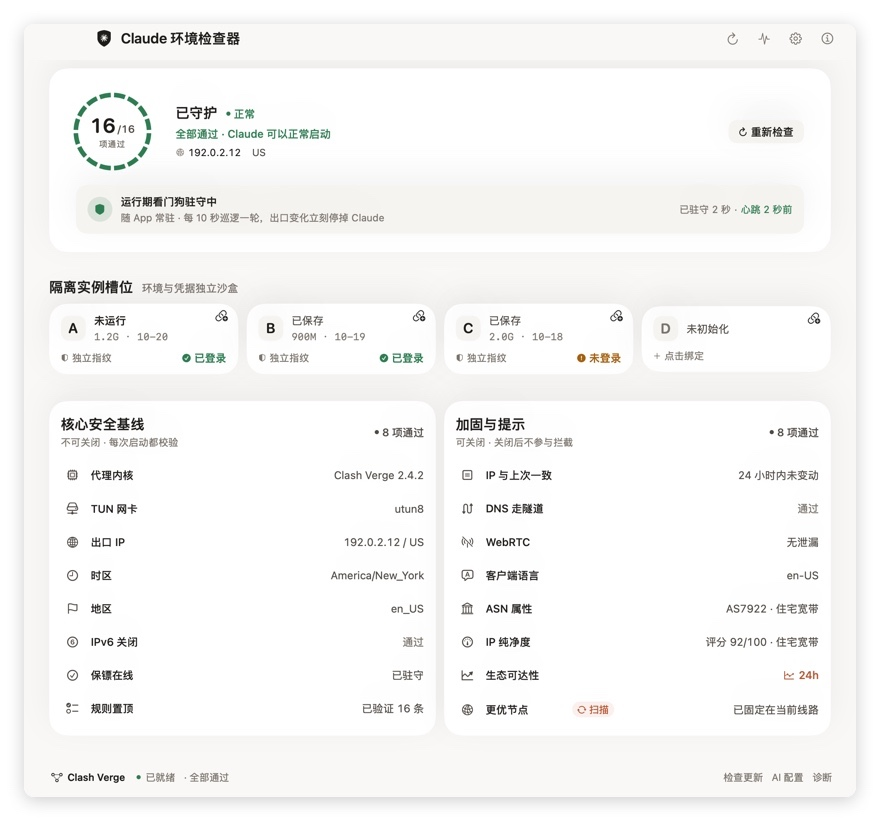
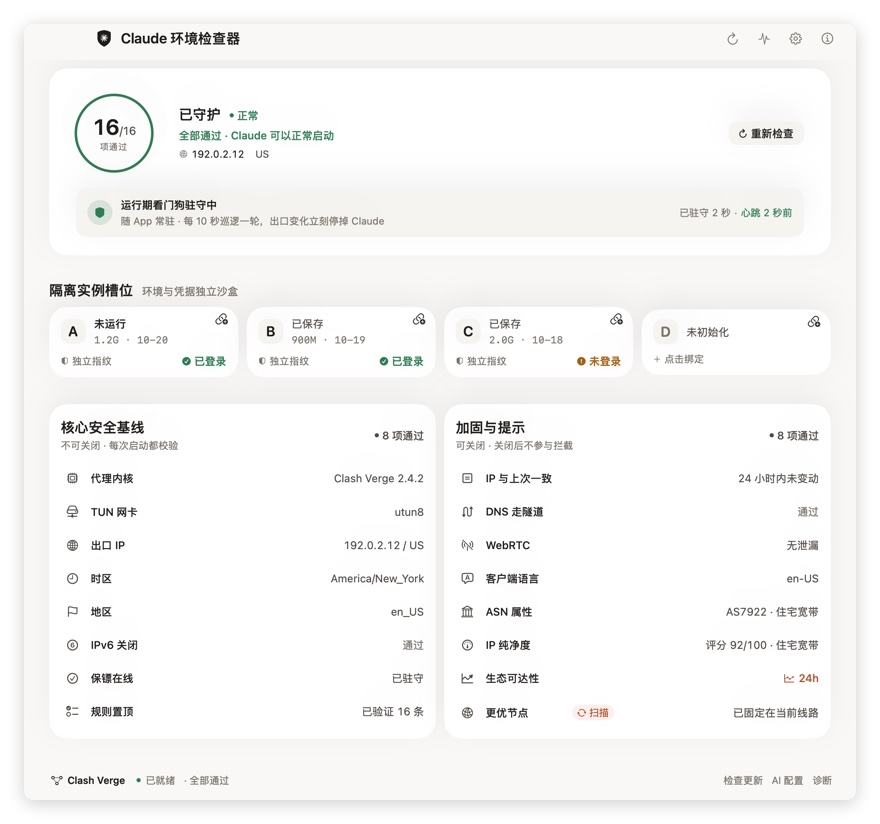
fix(ui): 圆环改回细环,环内「16/16」排成一行——圆没问题,是排布丑
用户原话(2026-11-06):「圆环太丑了」→「圆形没问题,是你之前排布太丑」。

**我上一版做错的地方**:把环改成 16 段「一段一项」。放大两倍看,每段的长度只比缝宽
一点点,整圈读起来是「加载中的虚线 spinner」—— 比原来更廉价。分段这条路当场否决。

**这版的排布**(只动环内和环的粗细,圆的形态不变):
- 环径 80 → 92,描边 5 → 3。粗环配 26pt 大字像仪表盘;细环才是「环是边框、数字是主体」。
- 环内两行 → 一行「16/16」+ 一行「项通过」。旧版是「16」和「/16 项」两行,两个 16
  挨着、斜杠贴着分母往下沉,得先解析一次才知道哪个是通过数。
- 分子分母拼进**同一个 Text**(`Text(a) + Text(b)`),不再用 HStack 对基线 ——
  HStack 里斜杠那段的字体度量会让它浮在数字上方。
- 值与分母约 2:1,分母 muted(8.8:1) 而不是 faint(4.6:1):12pt 下 faint 太浅,
  扫一眼会读成「16」。
- 单位「项通过」留在环内。试过挪到环外下方:整个左块被顶高,那行字顶到卡片下边缘,
  卡片看着左高右低,否决。

**门禁**(tests/test_hero_semantics.py,7 条):
- 环必须是连续弧、环里不许 ForEach(防止有人改回分段)
- 分母必须用 Text 拼接、不许再拼成「/16 项」
- 环内只显示通过项数、不许出现「分」、环色只取 healthSummary.color
- 结论里的纯净度量级必须写「49/100」
负例对照:旧环(0a05f59)红 4 条、上一版虚线环(c7dafd6)红 3 条、现行全绿。

**顺带**:README 中英、AGENTS 的圆环口径全部改写,把「分段→spinner→否决」这条
记进 AGENTS,免得以后又有人试一遍。docs 三张演示图按新环重拍。

测试:507 通过(其中 1 例是我改完文案没同步断言,已在本次提交里修掉);
swiftc -warnings-as-errors 零警告;release-check 门禁通过。

diff --git a/app/main.swift b/app/main.swift
@@ -2985,11 +2985,9 @@ struct ContentView: View {
         vm.rows.filter { $0.state == .ok }.count
     }
 
-    // 这里原本还有两个辅助属性：healthRingProgress（满环比例）与 healthRingColor
-    // （整圈一个颜色，按 HealthSummary.Level 取）。改成一段一项之后它们都没有引用者了：
-    // 进度不再是「一圈走多少」，而是 16 段各自的颜色；环的颜色也不再是一个值。
-    // healthRingColor 存在的唯一理由是「别按分数染色」，而现在连这个自由度都没了 ——
-    // 每一段的颜色只由那一项自己的状态决定，分数根本进不来。
+    // 环色只有一处来源：`healthSummary.color`（ok / notice / cannotStart）。
+    // 曾经有过 scoreColor（≥85 绿 / 60–84 琥珀 / <60 红），结果「分数 80、徽章写
+    // 可以启动」这一屏里整圈是琥珀色 —— 见 HealthSummary.color 上的注释。
 
     /// 圆环 + 通过项数。这里**不显示分数**。
     ///
@@ -2998,69 +2996,65 @@ struct ContentView: View {
     /// 实测场景：IP 纯净度 49 分（转租机房），徽章写「可以启动」，
     /// 环里却是「80 分」配一圈琥珀色，用户只会得出「不能用了」。
     ///
-    /// 画法是**一段一项**：16 段弧，段间留 2.5° 缝，每段的颜色取该项自己的状态。
-    /// 为什么不画一条连续的进度弧 —— 「X of N」是离散计数，连续弧在 15/16 时
-    /// 只差 6%，眼睛根本看不出少了一项，等于把「哪一项没过」这个信息扔掉；
-    /// 分段则是把「N 项」这个分母直接画出来。这也是同类组件的通行做法
-    /// （Mantine 的 RingProgress 就是 sections + sectionGap，按段着色）。
-    ///
-    /// 数字排版按 KPI 卡的通行比例：值与分母约 2:1，分母同色但降饱和。
-    /// 旧版是「16」+「/16 项」两行，两个 16 挨着、斜杠贴着分母往下沉，
-    /// 读起来得先解析一次才知道哪个是通过数。
+    /// 环本身的排布（2026-11-06 用户：「圆形没问题，是你之前排布太丑」）：
+    ///   · 环径 92、描边 3 —— 原来是 80 / 5，粗环配大字像仪表盘；细环才像工具；
+    ///   · 弧是**连续**的，不是分段。试过 16 段（一段一项）：段长只比缝宽一点，
+    ///     整体读起来是「加载中的虚线 spinner」，比原来更廉价，已否决；
+    ///   · 环内**一行**「16/16」+ 一行「项通过」。原来两行是「16」和「/16 项」，
+    ///     两个 16 挨着、斜杠贴着分母往下沉，得先解析一次才知道哪个是通过数；
+    ///     现在分母跟主数字同基线、斜杠两侧留 3pt，「16/16」是一个整体；
+    ///   · 值与分母约 2:1，分母用中间那档灰（8.8:1）而不是最浅的 faint（4.6:1）——
+    ///     12pt 下 faint 太浅，扫一眼会读成「16」而不是「16/16」。
+    ///   · 单位（项通过）留在环内：挪到环外会把整个左块顶高，卡片看着左高右低。
     private var healthRing: some View {
-        let total = CGFloat(max(vm.rows.count, 1))
-        return ZStack {
-            ForEach(vm.rows.indices, id: \.self) { i in
-                Circle()
-                    .trim(from: CGFloat(i) / total + Self.ringGap,
-                          to: CGFloat(i + 1) / total - Self.ringGap)
-                    .stroke(ringStateColor(vm.rows[i].state),
-                            style: StrokeStyle(lineWidth: 5.5, lineCap: .butt))
-                    .rotationEffect(.degrees(-90))
-                    .animation(.easeInOut(duration: Motion.emphasis), value: vm.rows[i].state)
-            }
+        ZStack {
+            Circle()
+                .stroke(ClaudeTheme.hairline, lineWidth: Self.ringStroke)
+            Circle()
+                .trim(from: 0, to: ringProgress)
+                .stroke(healthSummary.color,
+                        style: StrokeStyle(lineWidth: Self.ringStroke, lineCap: .round))
+                .rotationEffect(.degrees(-90))
+                .animation(.easeInOut(duration: Motion.emphasis), value: ringProgress)
             if heroBusy {
                 ProgressView().scaleEffect(0.6)
             } else {
-                VStack(spacing: 0) {
-                    HStack(alignment: .firstTextBaseline, spacing: 1.5) {
+                VStack(spacing: 3) {
+                    // 分子分母拼进**同一个 Text**，而不是 HStack 两段。
+                    // HStack 靠 firstTextBaseline 对基线，斜杠那一段的字体度量
+                    // 会让它看起来「浮」在数字上方；拼成一串就没有这个问题，
+                    // 字距和基线都由排版引擎自己算，「16/16」是一个整体。
+                    (
                         Text("\(passedCount)")
-                            .font(.system(size: 24, weight: .semibold, design: .rounded))
-                            .monospacedDigit()
+                            .font(.system(size: 26, weight: .semibold))
                             .foregroundColor(ClaudeTheme.ink)
-                            .contentTransition(.numericText())
-                        Text("/\(vm.rows.count)")
-                            .font(.system(size: 12.5, weight: .medium, design: .rounded))
-                            .monospacedDigit()
-                            // 分母用中间那一档灰（8.8:1），不用最浅的 faint（4.6:1）：
-                            // 12.5pt 下 faint 太浅，扫一眼会读成「16」而不是「16/16」。
+                        + Text("/\(vm.rows.count)")
+                            .font(.system(size: 13.5, weight: .regular))
                             .foregroundColor(ClaudeTheme.muted)
-                    }
+                    )
+                    .monospacedDigit()
+                    .tracking(-0.4)
+                    .contentTransition(.numericText())
                     Text("项通过")
-                        .font(.system(size: 10, weight: .medium))
+                        .font(.system(size: 10.5, weight: .regular))
                         .tracking(0.8)
                         .foregroundColor(ClaudeTheme.faint)
-                        .padding(.top, 2)
                 }
             }
         }
-        .frame(width: 88, height: 88)
+        .frame(width: Self.ringSize, height: Self.ringSize)
         .accessibilityLabel("\(vm.rows.count) 项中 \(passedCount) 项通过，\(heroVerdict.text)")
     }
 
-    /// 段间缝隙占整圈的比例：2.5° ≈ 0.00694。
-    /// 试过 4°/3°/2.5°：4° 起就散成虚线（读着像「加载中」），2.5° 还能看出分段又不散。
-    private static let ringGap: CGFloat = 2.5 / 360
+    /// 环径与描边。92 / 3 是「环是边框、数字是主体」的那一档；
+    /// 再粗就会盖过环里的字，再细在小尺寸下会断续。
+    private static let ringSize: CGFloat = 92
+    private static let ringStroke: CGFloat = 3
 
-    /// 一段的颜色 = 这一项自己的状态，和分数无关。
-    /// 过=绿、提示=琥珀、不合格=红、跳过/未跑=浅灰（留着位置，说明「有这一项」）。
-    private func ringStateColor(_ state: RowState) -> Color {
-        switch state {
-        case .ok: return ClaudeTheme.ok
-        case .warn: return ClaudeTheme.warn
-        case .fail, .config: return ClaudeTheme.bad
-        case .skip, .pending: return ClaudeTheme.hairline
-        }
+    /// 走多少圈。仍是「通过项数 / 总项数」，不是分数。
+    private var ringProgress: CGFloat {
+        guard !vm.rows.isEmpty else { return 0 }
+        return CGFloat(passedCount) / CGFloat(vm.rows.count)
     }
 
     /// 状态徽章:标题右边的小标签。

diff --git a/tests/test_hero_semantics.py b/tests/test_hero_semantics.py
@@ -7,9 +7,8 @@
 于是出现过一屏两句话互相打架 —— 徽章写「可以启动」，环套琥珀色、里面写「80 分」，
 因为 IP 纯净度低把总分拖到了 84 以下。用户读到的只有颜色和数字。
 
-现在圆环里是「通过项数 / 总项数」，而且是**一段一项**：16 段弧，每段的颜色
-取那一项自己的状态（绿 / 琥珀 / 红 / 浅灰）。分数仍然在 `HealthSummary.score`
-里算着（诊断与排序要用），但它不许回到主视觉。
+现在圆环里是「通过项数 / 总项数」，而且**分子分母排成一行**（「16/16」是一个整体）。
+分数仍然在 `HealthSummary.score` 里算着（诊断与排序要用），但它不许回到主视觉。
 
 这几条都是「有人顺手改回去就会立刻红」的静态断言，因为它们约束的是
 **界面语义**，不是某个函数的返回值 —— 单测跑不出「颜色让人误会」。
@@ -65,32 +64,46 @@ class HeroSemanticsTests(unittest.TestCase):
     def test_ring_shows_passed_count_not_score(self):
         """圆环里的文字是通过项数，且不带「分」字。"""
         ring = block(self.code, "private var healthRing: some View {",
-                     "private static let ringGap")
+                     "private var heroBadge: some View {")
         self.assertIn("passedCount", ring, "圆环要显示通过项数")
         self.assertIn('Text("/\\(vm.rows.count)")', ring,
                       "分母应是「/总项数」")
         self.assertIn('"项通过"', ring, "要有单位字「项通过」")
         self.assertNotIn('"分"', ring, "圆环里不许再出现「分」这个字")
 
-    def test_ring_is_one_segment_per_check(self):
-        """一段一项：分段数必须等于行数，不能写死成固定刻度。
+    def test_ring_fraction_is_one_token(self):
+        """「16/16」必须是一个整体：分子分母拼在同一个 Text 里，且不再拼成「/16 项」。
 
-        连续进度弧在 15/16 时只差 6%，看不出少了一项 —— 那正是这一版换掉它的原因。
+        旧排布是「16」+「/16 项」两行：两个 16 挨着、斜杠贴着分母往下沉，
+        读的人得先解析一次才知道哪个是通过数（用户原话：「排布太丑」）。
+        现在是 `Text(分子) + Text(分母)` —— 同一段文字流，基线与字距由排版引擎算。
         """
         ring = block(self.code, "private var healthRing: some View {",
-                     "private static let ringGap")
-        self.assertIn("vm.rows.indices", ring, "每一段要从 vm.rows 里来")
-        self.assertIn("ringStateColor(vm.rows[i].state)", ring,
-                      "每段的颜色要取那一项自己的状态")
+                     "private var heroBadge: some View {")
+        self.assertIn('+ Text("/\\(vm.rows.count)")', ring,
+                      "分母要用 Text 拼接接在分子后面，不能另起一个视图")
+        self.assertNotIn('项")', ring,
+                         "分母后面不许再跟「项」字 —— 那会变回「/16 项」")
 
-    def test_segment_color_comes_from_item_state(self):
-        """每段颜色只看该项状态，分数进不来。"""
-        color = block(self.code, "private func ringStateColor(_ state: RowState) -> Color {",
-                      "private var heroBadge: some View {")
-        self.assertIn("switch state", color, "按行状态分派颜色")
-        self.assertNotIn("score", color, "分段颜色不许看分数")
-        for state in (".ok", ".warn", ".fail", ".skip"):
-            self.assertIn(state, color, f"{state} 要有明确颜色")
+    def test_ring_is_continuous_not_segmented(self):
+        """连续弧，不是 16 段。
+
+        2026-11-06 试过「一段一项」的分段环：段长只比缝宽一点，整圈读起来是
+        「加载中的虚线 spinner」，比原来更廉价，当场否决。这条防止有人再改回去。
+        """
+        ring = block(self.code, "private var healthRing: some View {",
+                     "private var heroBadge: some View {")
+        self.assertIn(".trim(from: 0, to: ringProgress)", ring,
+                      "环应是一条连续弧")
+        self.assertNotIn("ForEach", ring, "环里不许按行分段着色")
+        self.assertNotIn("ringGap", self.code, "分段用的段缝常量应已删除")
+
+    def test_ring_colour_comes_from_level(self):
+        """环色只跟结论走，不按分数分档。"""
+        ring = block(self.code, "private var healthRing: some View {",
+                     "private var heroBadge: some View {")
+        self.assertIn("healthSummary.color", ring,
+                      "环色应直接取 healthSummary.color（Level 决定）")
 
     def test_purity_magnitude_is_labelled_as_percent(self):
         """结论里带纯净度量级时必须写成 0-100 的参照分，不能裸写「49 分」。"""

diff --git a/AGENTS.md b/AGENTS.md
@@ -103,9 +103,16 @@
 
 **不要把「可关闭」摆到主界面上**：16 项默认全部拦启动，按能不能关分组会让人以为「有些可以不拦」，等于把降级当选项推荐。主界面只列一份清单；关闭入口只在设置页的「降级防护（不推荐）」里。关掉之后必须持续可见——主界面常驻橙色「防护已降级：…」，`check` 输出追加 `|防护降级:…`，否则命令行、日志、自动化这些看不到界面的地方完全无从判断。
 
-**首页不要拿分数当红绿灯**（2026-11-06 用户原话：「不要用分数让别人误会，IP 非常不干净按道理还是能启动」）。`HealthSummary.score` 是四维加权的合成分，只用于诊断与排序，不进主视觉：圆环里是「通过项数 / 总项数」，而且**一段一项** —— 16 段弧、段缝 2.5°，每段的颜色取那一项自己的状态（绿 / 琥珀 / 红 / 浅灰），所以「哪一项没过」在环上就能指出来。曾经有过 `scoreColor`（≥85 绿、60–84 琥珀、<60 红），后果是「IP 纯净度偏低 → 分数掉到 80 → 整圈变琥珀」而徽章明明写着「可以启动」，一屏两句话互相打架，用户只记住颜色，于是把「能启动」读成「快不行了」。同理，同一屏不要出现两处通过数（圆环一处就够，右边原本还有一句「13/15 项通过」）。分数与能否启动本来就会背离 —— README 里那句「65 分的代理会被硬门槛排除、49 分的机房反而可用」就是这个意思 —— 拿它当红绿灯等于把结论建立在软信号上。
+**首页不要拿分数当红绿灯**（2026-11-06 用户原话：「不要用分数让别人误会，IP 非常不干净按道理还是能启动」）。`HealthSummary.score` 是四维加权的合成分，只用于诊断与排序，不进主视觉：圆环里是「16/16」这样的读数（通过项数 / 总项数），环色只跟 `HealthSummary.color`（ok / notice / cannotStart）走。曾经有过 `scoreColor`（≥85 绿、60–84 琥珀、<60 红），后果是「IP 纯净度偏低 → 分数掉到 80 → 整圈变琥珀」而徽章明明写着「可以启动」，一屏两句话互相打架，用户只记住颜色，于是把「能启动」读成「快不行了」。同理，同一屏不要出现两处通过数（圆环一处就够，右边原本还有一句「13/15 项通过」）。分数与能否启动本来就会背离 —— README 里那句「65 分的代理会被硬门槛排除、49 分的机房反而可用」就是这个意思 —— 拿它当红绿灯等于把结论建立在软信号上。
 
-**为什么是分段而不是一条连续进度弧**（2026-11-06 用户原话：「检查圆环这里的显示……现在的这个不行，你多找找好的案例」）。连续弧在 15/16 时只差 6%，眼睛看不出少了一项，等于把「哪一项没过」这个信息扔掉；分段是把分母直接画出来（同类组件 Mantine 的 `RingProgress` 就是 sections + sectionGap、按段着色）。段缝试过 4°/3°/2.5°：4° 起就散成虚线、读着像「加载中」，2.5° 还能看出分段又不散。环内数字按 KPI 卡通行比例：值 24pt、分母 12.5pt（约 2:1），分母用中间那档灰（8.8:1）而不是最浅的 faint（4.6:1）—— 12pt 下 faint 太浅，扫一眼会读成「16」而不是「16/16」。`tests/test_hero_semantics.py` 把这五条钉住了（分数不许进环、必须一段一项、段色取自行状态、分量级要写 `/100`、不许出现「分」）。
+**圆环的排布（丑在哪）**（2026-11-06 用户两次反馈：「检查圆环这里的显示……现在的这个不行」「圆形没问题，是你之前排布太丑」）。圆这个形态没问题，**丑在环里那堆字**和环的粗细：
+
+- 环径 92 / 描边 3。原来是 80 / 5，粗环配 26pt 大字像仪表盘；细环才是「环是边框、数字是主体」。
+- 环内**一行**「16/16」+ 一行「项通过」。旧排布是两行「16」和「/16 项」——两个 16 挨着、斜杠贴着分母往下沉，读的人得先解析一次才知道哪个是通过数。
+- 分子分母拼进**同一个 Text**（`Text(a) + Text(b)`），别用 HStack 对基线：HStack 里斜杠那段的字体度量会让它看起来浮在数字上方。
+- 值与分母约 2:1，分母用 `muted`（8.8:1）而不是 `faint`（4.6:1）—— 12pt 下 faint 太浅，扫一眼会读成「16」。
+- 单位「项通过」留在环内。挪到环外下方会把整个左块顶高，卡片看着左高右低（实测过：那行字被顶到卡片下边缘）。
+- **不要改成「一段一项」的分段环。** 试过 16 段弧、缝 2.5°、按项着色：段长只比缝宽一点，整圈读起来是「加载中的虚线 spinner」，比原来更廉价，用户当场否决（「太丑了」）。`tests/test_hero_semantics.py` 有一条断言盯着这个（环必须是连续弧、环里不许 ForEach）。
 
 出口身份归一：`IP一致` 与 48h 变化统计都不直接比原始地址，而是比归一身份——v4 原样，v6 取 `/64` 前缀。`lastip` 按协议族各存一行，两族互不覆盖；历史统计先按族去重再取最大值。这样同一节点双栈交替（先报 v4 再报 v6、或 v6 在同一 /64 内换接口标识）不会被判成「出口在漂移」或「IP 变了」。旧版写下的裸地址在读取时自动迁移，升级后第一次检查不会误报。`出口IP` 走 v6 时**不再**额外标注「IPv6 出口」——冒号地址本身已说明协议族，补这一句反而容易让用户误以为自己开了本机 IPv6。三条相关行各说各的层，不要合并：`IPv6` 查本机网卡（出口是 v6 时写「本机已关闭 · 节点出口为 IPv6」）；`出口IP` 报节点侧对 Cloudflare 呈现的地址；`WebRTC` 的 STUN 探针只走 v4，无 v4 出口时写「节点无 IPv4 出口，STUN 只回 IPv4，无法比对(非泄漏)」。
 

diff --git a/README.md b/README.md
@@ -63,7 +63,7 @@
 
 ## 重点能力
 
-- **四维加权评分**：身份 / 隔离 / 一致 / 守护四个维度，用来诊断和排序。首页**不显示这个分**——圆环是 16 段，一段一项：通过的是绿的，没过的那一段自己变色，所以「哪一项没过」不用再去下面一行行找。分数低不等于起不来：IP 纯净度偏低会让分掉下来，但它只是软信号，照样能启动。
+- **四维加权评分**：身份 / 隔离 / 一致 / 守护四个维度，用来诊断和排序。首页**不显示这个分**——圆环里是「16/16」这样一个读数（通过项数 / 总项数），环的粗细只做边框、颜色只回答「能不能启动」。分数低不等于起不来：IP 纯净度偏低会让分掉下来，但它只是软信号，照样能启动。
 - **IP 纯净度**：四源交叉（ipquery / ip-api / ipinfo / stopforumspam）+ 本地 PTR，类型基线减分；机房只给警告，代理特征与 Tor 才拦启动。
 - **节点扫描与应用**：只读扫描当前控路 Selector 的候选节点并排名；「应用最优节点」只在门禁允许时出现，按下时实时复核门禁、切后复查出口国家，任一步不达标自动回滚。细节见 [AGENTS.md](AGENTS.md)。
 - **一槽一套环境**：切 A–D 时连同 Claude Code 的 `~/.claude/` 与 `~/.claude.json` 一起换，桌面版和终端不再共用同一份登录态。槽位卡上的 `CLI` 角标表示这个槽位也存了终端状态。

diff --git a/README.en.md b/README.en.md
@@ -65,9 +65,8 @@ repository, command-line script, and build artifact name.
 - **IP purity score** — an explainable 0–100 score from four independent data
   sources plus local PTR, with degraded verdicts when sources are unreachable.
   A low score is a soft signal: it never decides whether Claude can start, so
-  the home screen shows passed-check counts instead of an overall score — one
-  arc segment per check, colored by that check's own state, so a single failed
-  item is visible at a glance instead of costing 6% of a continuous ring.
+  the home screen shows passed-check counts (16/16) instead of an overall
+  score, and the ring's color only answers whether Claude can start.
 - **Node scan and gated apply** — read-only ranking of the current Selector's
   candidate nodes; applying the best node requires a fresh real-time gate,
   re-checks the exit country, and rolls back on any failed step.
